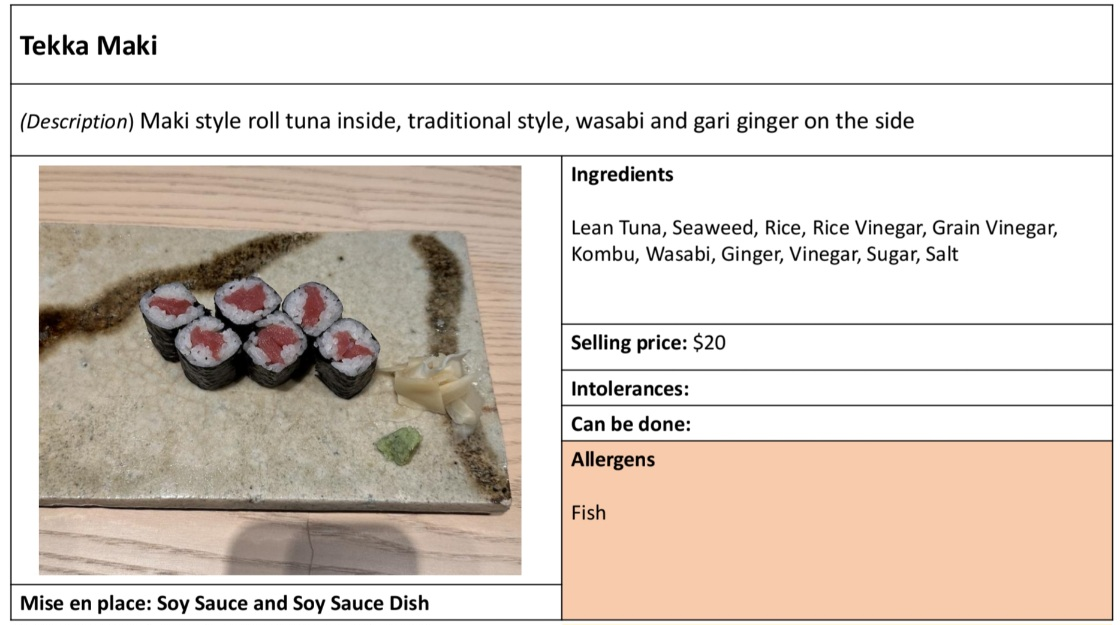
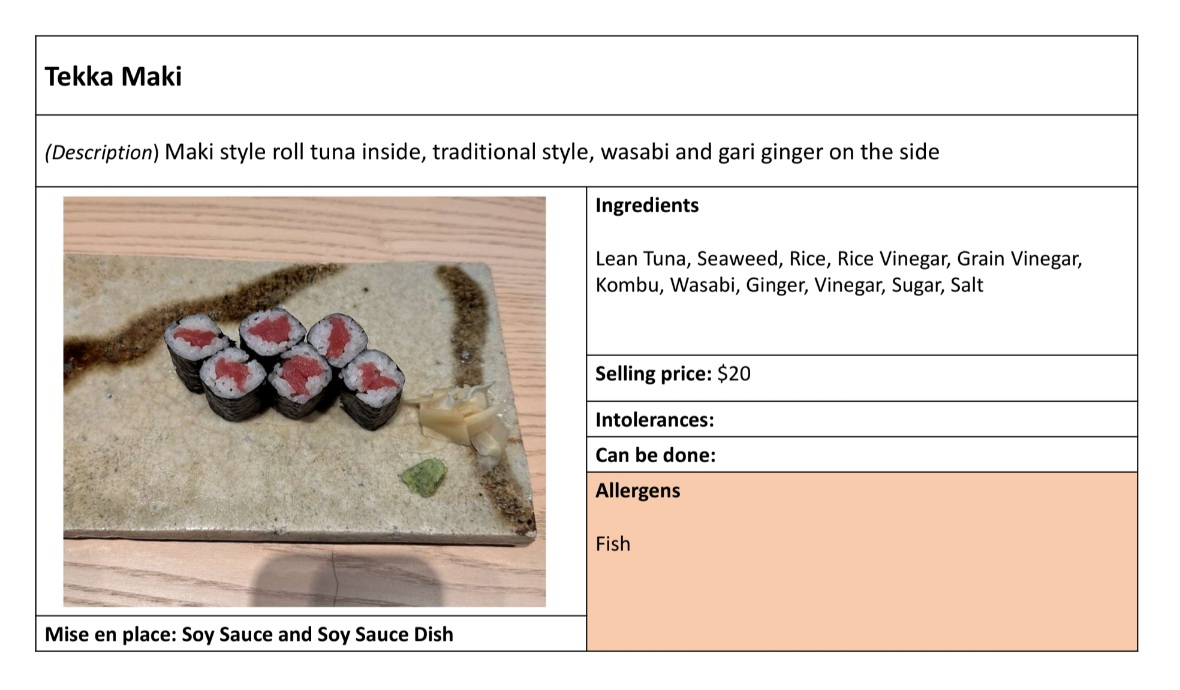
update pic: tekka maki

Changed region(s): [[0.0, 0.0, 1.0, 1.0]]

diff --git a/app/manager/page.jsx b/app/manager/page.jsx
@@ -2973,7 +2973,7 @@ export default function ManagerDinnerPage() {
           <div className='modal-content'>
           
           <div>
-            <img src='tekka-maki.jpg' />
+            <img src={`tekka-maki.jpg?v={Date.now()}`} />
           </div>
           <div className='modal-text'>
                            

diff --git a/app/page.jsx b/app/page.jsx
@@ -3108,7 +3108,7 @@ appetizers, seasonal plates, and dessert.
           <div className='modal-content'>
           
           <div>
-            <img src='tekka-maki.jpg' />
+            <img src={`tekka-maki.jpg?v={Date.now()}`} />
           </div>
           <div className='modal-text'>
                            
